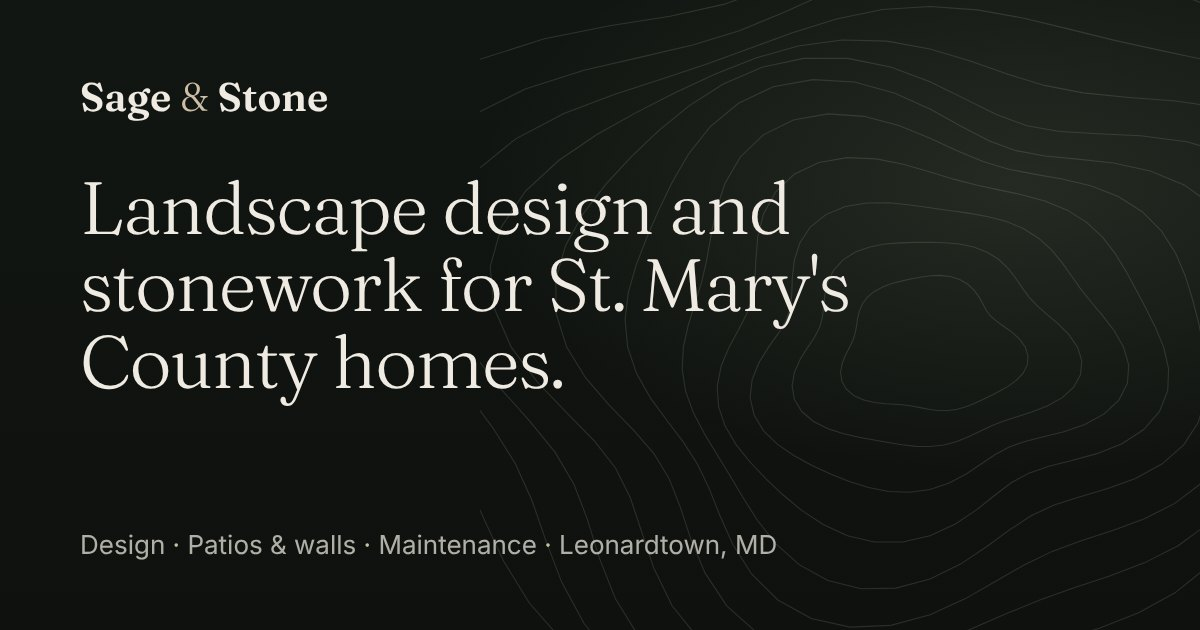
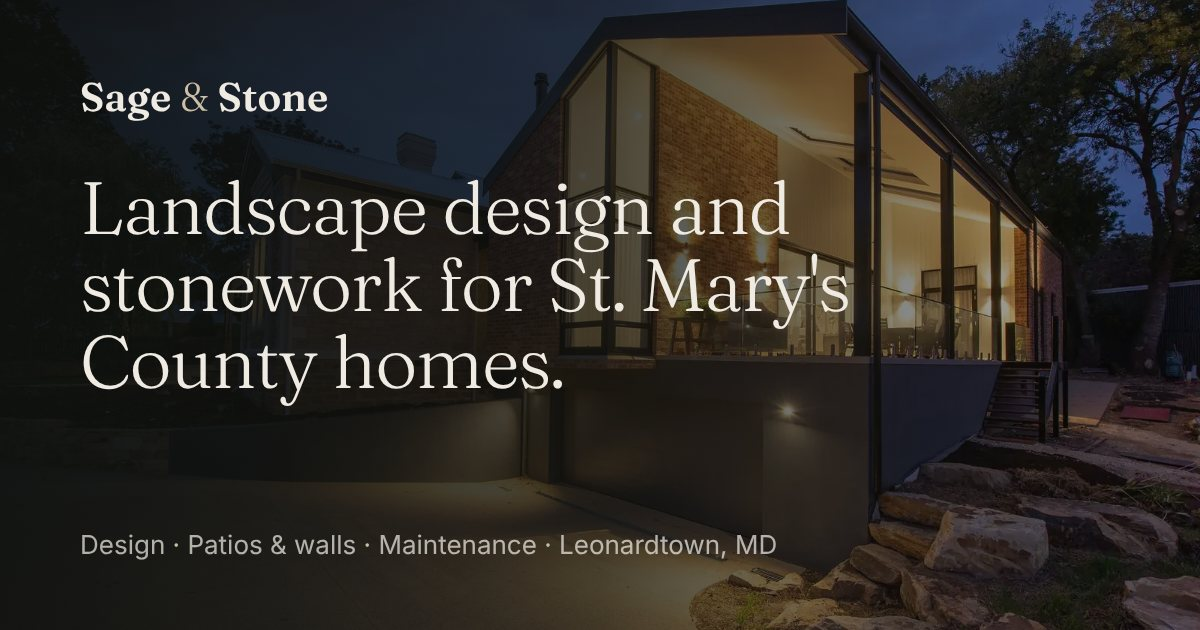
Fill photo slots with licensed stock photography
- Hero: dusk house with landscape lighting and boulder steps (Pexels),
  mirrored so the headline sits on the darker side; served as WebP at
  900/1600/2400w and preloaded as the LCP image
- Service cards: a photo per service (Pexels) replaces the line icons,
  responsive WebP at 400-1000w, lazy-loaded
- Before/after slider: a real same-yard transformation (krossbow on
  Flickr, CC BY 2.0) with the required credit shown under the slider
- Social share image now uses the hero photo
- Footer says the photos are stock images for illustration;
  images/CREDITS.md records every source and license

All photos are free-license stock and marked SWAP for real project work.

Claude-Session: https://claude.ai/code/session_019JXs736qRRS3YXfKqF7c8F

diff --git a/index.html b/index.html
@@ -68,6 +68,7 @@
   <!-- Fonts: Fraunces (display) + Inter (body/UI), self-hosted latin subsets -->
   <link rel="preload" href="/fonts/fraunces-latin.woff2" as="font" type="font/woff2" crossorigin>
   <link rel="preload" href="/fonts/inter-latin.woff2" as="font" type="font/woff2" crossorigin>
+  <link rel="preload" as="image" href="/images/hero-1600.webp" imagesrcset="/images/hero-900.webp 900w, /images/hero-1600.webp 1600w, /images/hero-2400.webp 2400w" imagesizes="100vw" fetchpriority="high">
 
   <!-- entrance animations only when the visitor hasn't asked for reduced motion -->
   <script>if (!matchMedia('(prefers-reduced-motion: reduce)').matches && 'IntersectionObserver' in window) document.documentElement.classList.add('motion');</script>
@@ -421,17 +422,14 @@
         radial-gradient(60% 50% at 10% 95%, rgba(205, 191, 166, 0.07) 0%, transparent 70%),
         linear-gradient(180deg, #121612 0%, var(--bg) 100%);
     }
-    .hero-contours {
+    .hero-media {
       position: absolute;
-      top: 50%;
-      right: -8%;
-      width: min(68vw, 980px);
-      height: auto;
-      transform: translateY(-46%);
-      color: var(--accent);
-      opacity: 0.14;
+      inset: 0;
+      width: 100%;
+      height: 100%;
+      object-fit: cover;
+      object-position: 50% 50%;
       z-index: 0;
-      pointer-events: none;
     }
     .hero::after {
       /* soft vignette so type sits on quiet ground */
@@ -440,7 +438,9 @@
       inset: 0;
       z-index: 1;
       pointer-events: none;
-      background: linear-gradient(90deg, rgba(14,17,14,0.85) 0%, rgba(14,17,14,0.4) 45%, transparent 75%);
+      background:
+        linear-gradient(90deg, rgba(14,17,14,0.9) 0%, rgba(14,17,14,0.78) 40%, rgba(14,17,14,0.3) 70%, rgba(14,17,14,0.12) 100%),
+        linear-gradient(0deg, rgba(14,17,14,0.85) 0%, transparent 30%);
     }
     .hero-content {
       position: relative;
@@ -451,8 +451,8 @@
     @media (max-width: 820px) {
       .hero { min-height: 0; }
       .hero-content { padding-block: 8.5rem 4rem; }
-      .hero-contours { width: 150vw; right: -70vw; top: 18%; opacity: 0.1; }
-      .hero::after { background: rgba(14,17,14,0.35); }
+      .hero-media { object-position: 72% 50%; }
+      .hero::after { background: linear-gradient(180deg, rgba(14,17,14,0.7) 0%, rgba(14,17,14,0.82) 45%, rgba(14,17,14,0.95) 100%); }
     }
 
     .hero-eyebrow {
@@ -537,8 +537,16 @@
       border-color: var(--hairline-bright);
       box-shadow: 0 24px 64px rgba(0, 0, 0, 0.35);
     }
-    .card-icon { margin-bottom: 1.75rem; }
-    .card-icon svg { width: 44px; height: 44px; color: var(--accent); }
+    .card { overflow: hidden; }
+    .card-media {
+      display: block;
+      width: calc(100% + 4.5rem);
+      max-width: none;
+      height: auto;
+      aspect-ratio: 3 / 2;
+      object-fit: cover;
+      margin: -2.5rem -2.25rem 1.75rem;
+    }
     .card h3 {
       font-family: var(--font-display);
       font-weight: 300;
@@ -601,27 +609,20 @@
     }
     .ba-scene { position: absolute; inset: 0; }
 
-    /* "before" scene — gradient stand-in until the real photo drops in */
-    .ba-before {
-      background:
-        radial-gradient(55% 45% at 28% 72%, rgba(96, 88, 62, 0.85) 0%, transparent 60%),
-        radial-gradient(50% 40% at 72% 78%, rgba(74, 72, 64, 0.8) 0%, transparent 60%),
-        radial-gradient(70% 30% at 50% 100%, rgba(52, 48, 38, 0.9) 0%, transparent 70%),
-        linear-gradient(180deg, #33362f 0%, #3b3c33 38%, #4a4437 40%, #3d3a2e 68%, #2e2b21 100%);
+    .ba-scene { background: var(--surface); }
+    .ba-scene img {
+      position: absolute;
+      inset: 0;
+      width: 100%;
+      height: 100%;
+      object-fit: cover;
+      pointer-events: none;
     }
-    /* "after" scene — gradient stand-in until the real photo drops in */
-    .ba-after {
-      clip-path: inset(0 calc(100% - var(--pos)) 0 0);
-      background:
-        radial-gradient(40% 32% at 76% 26%, rgba(185, 199, 163, 0.14) 0%, transparent 65%),
-        radial-gradient(55% 45% at 24% 68%, rgba(62, 107, 38, 0.9) 0%, transparent 60%),
-        radial-gradient(50% 42% at 70% 76%, rgba(45, 74, 30, 0.95) 0%, transparent 60%),
-        radial-gradient(70% 30% at 50% 102%, rgba(26, 46, 20, 1) 0%, transparent 72%),
-        linear-gradient(180deg, #142012 0%, #1b2d15 36%, #2c4a1e 38%, #23391a 66%, #142310 100%);
-    }
+    .ba-after { clip-path: inset(0 calc(100% - var(--pos)) 0 0); }
 
     .ba-badge {
       position: absolute;
+      z-index: 1;
       top: 1.25rem;
       padding: 0.35rem 0.9rem;
       border-radius: 999px;
@@ -700,6 +701,8 @@
       color: var(--muted);
       font-size: 0.85rem;
     }
+    .ba-caption .hint a { text-decoration: underline; text-underline-offset: 2px; }
+    .ba-caption .hint a:hover { color: var(--text); }
 
     /* ============================================================
        PROCESS
@@ -1053,9 +1056,11 @@
 
     <!-- ============ HERO ============ -->
     <section class="hero" id="top">
-      <!-- PHOTO SLOT: hero background — full-bleed dusk shot of a finished landscape,
-           low horizon, warm path lighting; replaces the contour motif -->
-      <svg class="hero-contours" viewBox="0 0 840 760" fill="none" stroke="currentColor" stroke-width="1" aria-hidden="true" focusable="false"><path d="M509.0 380.0 L511.5 388.3 L510.8 396.6 L506.9 404.3 L500.5 411.0 L492.8 416.6 L484.6 421.2 L476.6 425.3 L468.9 429.1 L461.3 432.6 L453.5 435.7 L445.4 438.0 L436.9 439.2 L428.3 439.2 L420.0 438.2 L412.0 436.7 L404.3 435.1 L396.4 434.0 L387.9 433.3 L378.5 432.8 L368.4 431.7 L358.3 429.4 L349.1 425.3 L341.9 419.3 L337.7 411.7 L336.5 403.4 L338.1 395.0 L341.3 387.1 L344.9 380.0 L348.1 373.5 L350.1 367.2 L351.3 360.8 L352.3 353.9 L353.9 346.8 L356.9 339.7 L361.6 333.3 L368.1 328.0 L375.9 323.8 L384.3 320.7 L393.0 318.4 L401.9 316.4 L410.8 314.7 L420.0 313.4 L429.4 313.0 L438.8 314.0 L447.7 316.8 L455.3 321.3 L461.5 327.2 L466.1 333.8 L469.6 340.3 L472.9 346.3 L476.9 351.4 L482.3 356.0 L489.0 360.7 L496.5 366.0 L503.6 372.5Z"/><path d="M557.7 380.0 L561.7 392.8 L560.5 405.7 L554.0 417.5 L543.1 427.4 L529.5 435.0 L515.0 440.6 L501.2 445.0 L488.8 449.0 L477.6 453.4 L467.2 458.3 L456.5 463.5 L445.1 468.0 L432.9 471.3 L420.0 472.8 L407.0 472.6 L394.0 471.1 L381.1 469.0 L367.8 466.7 L353.9 464.1 L339.4 460.9 L324.8 456.2 L311.3 449.4 L300.3 440.1 L293.4 428.8 L291.3 416.0 L293.6 403.1 L299.1 390.9 L306.0 380.0 L312.5 370.3 L317.1 361.2 L319.6 351.9 L320.8 341.8 L321.9 330.7 L324.6 319.2 L330.1 308.1 L338.8 298.5 L350.3 291.3 L363.7 286.5 L377.9 283.8 L392.2 282.7 L406.2 282.2 L420.0 282.1 L433.7 282.5 L447.5 283.7 L460.9 286.5 L473.4 291.4 L484.2 298.2 L493.1 306.7 L500.2 315.9 L506.3 324.9 L512.6 333.5 L520.1 341.4 L529.2 349.4 L539.6 358.2 L549.7 368.3Z"/><path d="M600.7 380.0 L605.5 396.7 L604.3 413.6 L596.3 429.4 L582.2 442.5 L564.0 452.4 L544.1 459.2 L524.9 463.9 L507.9 468.2 L493.4 473.4 L480.5 480.4 L467.7 489.1 L453.8 498.4 L437.9 506.8 L420.0 512.8 L400.9 515.4 L381.6 514.7 L362.7 511.0 L344.6 505.3 L327.1 498.3 L309.9 490.5 L293.2 481.4 L277.7 470.8 L264.7 458.1 L255.8 443.3 L252.1 427.0 L254.0 410.3 L260.4 394.4 L269.3 380.0 L278.4 367.2 L285.5 355.4 L289.6 343.5 L291.0 330.3 L291.5 315.4 L293.3 299.2 L298.5 282.8 L308.3 267.9 L322.8 256.3 L341.0 248.7 L361.1 245.4 L381.6 245.3 L401.3 247.3 L420.0 249.9 L438.0 252.5 L455.7 254.9 L473.4 258.0 L490.7 262.5 L507.0 269.2 L521.4 278.3 L533.5 289.2 L543.4 301.3 L552.1 313.6 L560.8 325.8 L570.4 337.9 L581.1 350.6 L591.8 364.5Z"/><path d="M638.1 380.0 L642.7 400.1 L641.9 420.5 L634.2 440.0 L619.5 456.9 L599.2 470.1 L575.8 479.4 L552.3 485.9 L530.9 491.2 L512.3 497.6 L496.1 506.4 L480.5 518.2 L463.3 531.9 L443.3 545.3 L420.0 556.0 L394.4 561.9 L368.1 561.8 L343.0 556.0 L320.3 545.6 L300.3 532.4 L282.7 517.8 L266.7 502.7 L252.0 487.2 L239.0 471.0 L228.8 453.7 L222.6 435.3 L221.4 416.3 L225.1 397.6 L232.5 380.0 L241.2 363.9 L249.0 348.8 L254.3 333.6 L256.6 317.1 L257.5 298.3 L259.2 277.4 L264.6 255.7 L275.8 235.3 L293.3 218.6 L316.3 207.7 L342.6 203.1 L369.9 204.3 L396.0 209.5 L420.0 216.5 L442.1 223.2 L463.2 228.7 L484.2 233.2 L505.7 237.7 L527.2 243.5 L547.7 251.9 L565.9 263.3 L581.0 277.3 L593.1 293.0 L603.1 309.5 L612.2 326.2 L621.2 343.3 L630.2 361.1Z"/><path d="M675.4 380.0 L678.2 403.3 L677.2 427.0 L670.4 450.1 L656.8 471.2 L636.7 488.9 L611.9 502.5 L585.3 512.2 L559.3 519.8 L535.8 527.4 L514.7 537.2 L494.5 550.3 L473.1 566.1 L448.5 582.5 L420.0 596.5 L388.3 604.9 L355.7 605.5 L324.7 597.8 L297.8 583.0 L276.0 563.3 L258.9 541.6 L245.2 519.9 L232.9 499.3 L221.1 480.0 L209.6 461.1 L199.4 441.8 L192.0 421.6 L188.7 400.9 L189.8 380.0 L194.3 359.7 L200.5 339.9 L206.6 320.3 L211.4 299.6 L215.4 277.1 L220.3 252.6 L228.7 227.0 L243.0 202.5 L264.4 181.9 L292.4 168.0 L324.8 162.3 L358.5 164.6 L390.9 173.2 L420.0 185.0 L445.8 197.0 L469.4 206.8 L492.7 213.8 L517.2 218.5 L543.3 223.0 L570.1 229.4 L595.7 239.4 L618.1 253.6 L635.9 271.5 L649.0 291.8 L658.2 313.3 L665.0 335.3 L670.7 357.4Z"/><path d="M717.9 380.0 L715.7 406.7 L711.7 433.3 L704.3 459.6 L691.7 484.7 L673.0 507.2 L648.5 525.8 L620.2 540.2 L590.6 551.1 L561.7 560.4 L534.6 570.4 L508.7 582.8 L482.2 598.1 L453.1 614.7 L420.0 629.8 L383.4 639.7 L345.4 641.3 L309.2 633.3 L278.0 616.0 L253.6 591.9 L236.1 564.4 L223.8 536.9 L213.7 511.6 L202.9 489.1 L189.8 468.7 L174.7 448.7 L159.2 427.6 L146.2 404.7 L137.8 380.0 L135.4 354.3 L138.5 328.6 L145.8 303.2 L155.5 278.1 L166.6 252.6 L179.2 226.4 L194.7 199.7 L214.9 174.2 L241.3 152.4 L273.7 137.0 L310.8 130.3 L349.4 132.6 L386.6 142.9 L420.0 157.8 L449.0 173.8 L475.0 187.3 L500.2 196.6 L527.4 201.6 L557.9 204.5 L591.3 208.1 L625.6 215.6 L657.3 228.6 L683.6 247.5 L702.3 271.3 L713.3 297.9 L718.1 325.6 L719.0 353.0Z"/><path d="M764.1 380.0 L753.0 410.0 L742.1 438.8 L731.0 467.1 L718.1 494.8 L701.2 521.3 L679.0 545.2 L651.6 565.3 L620.5 581.1 L587.7 593.6 L555.1 604.4 L523.1 615.8 L491.0 628.9 L457.1 643.6 L420.0 657.7 L379.4 668.0 L337.0 671.0 L295.7 664.2 L259.2 647.2 L230.3 621.5 L210.0 590.7 L196.6 558.7 L186.8 528.8 L176.4 502.5 L162.3 479.3 L143.3 457.4 L121.0 434.6 L98.8 409.0 L80.9 380.0 L71.0 348.5 L70.8 316.2 L80.0 284.8 L96.4 255.3 L117.5 227.9 L141.3 202.2 L167.1 177.7 L195.4 154.6 L227.1 134.4 L262.8 118.9 L302.1 110.5 L343.1 110.5 L383.2 118.5 L420.0 132.3 L452.6 148.3 L481.9 162.9 L510.4 173.3 L541.2 178.7 L576.5 180.8 L616.7 182.7 L659.6 188.3 L701.3 200.5 L737.0 220.7 L762.7 248.0 L776.6 280.2 L779.4 314.4 L774.0 348.1Z"/><path d="M806.5 380.0 L784.3 412.8 L763.9 442.8 L747.0 471.5 L732.8 500.5 L718.4 530.0 L700.8 559.1 L677.6 586.1 L648.6 609.3 L614.7 627.8 L577.9 642.3 L539.9 654.2 L501.4 665.3 L461.8 676.7 L420.0 687.8 L375.4 696.4 L328.8 699.6 L282.6 694.1 L240.2 678.6 L205.2 653.5 L179.3 621.4 L162.2 586.2 L150.7 551.8 L140.3 520.6 L126.6 493.0 L106.9 467.7 L81.5 441.8 L53.8 413.0 L29.1 380.0 L13.1 343.3 L9.5 305.0 L19.8 268.0 L42.3 234.5 L73.4 205.8 L109.1 181.6 L146.1 160.9 L182.9 142.2 L219.7 125.0 L257.5 110.1 L297.0 98.9 L338.2 93.3 L379.8 94.4 L420.0 101.7 L457.6 113.0 L492.7 125.3 L526.8 135.7 L562.9 142.7 L603.3 146.7 L649.0 150.3 L698.4 157.3 L747.4 171.1 L790.4 193.8 L821.7 225.2 L838.0 263.0 L838.6 303.6 L826.5 343.4Z"/><path d="M839.5 380.0 L808.2 415.0 L779.5 445.6 L757.2 474.4 L741.9 504.0 L730.8 536.2 L719.4 571.0 L703.0 606.4 L678.7 639.5 L645.9 667.6 L606.0 689.0 L561.7 703.9 L515.2 713.8 L468.0 720.6 L420.0 725.7 L370.8 729.0 L320.5 728.6 L270.3 722.2 L222.9 707.4 L181.6 683.5 L149.2 651.7 L126.4 614.9 L111.4 576.9 L100.2 540.7 L87.7 508.0 L70.0 478.0 L45.8 448.3 L17.1 416.3 L-10.9 380.0 L-31.5 339.3 L-38.9 296.2 L-29.8 254.1 L-4.6 216.4 L33.3 185.6 L78.3 162.0 L125.3 144.2 L170.4 129.6 L212.4 115.6 L252.1 101.1 L291.6 86.5 L332.6 73.7 L375.6 64.9 L420.0 62.0 L464.3 65.2 L507.6 73.0 L549.8 83.2 L592.3 93.7 L637.1 103.5 L685.4 113.7 L736.6 126.7 L787.5 145.5 L832.8 172.5 L866.6 208.0 L884.1 250.1 L883.5 295.4 L866.9 339.7Z"/><path d="M866.6 380.0 L832.8 417.2 L800.6 449.5 L775.6 479.5 L759.8 510.9 L751.3 546.5 L745.0 587.4 L734.6 631.7 L714.8 675.7 L683.0 714.8 L639.7 744.9 L588.0 764.1 L532.1 772.9 L475.4 773.6 L420.0 769.4 L366.1 762.6 L313.3 754.0 L261.4 742.5 L211.5 726.4 L165.8 703.7 L127.1 673.9 L97.3 638.2 L76.2 599.3 L61.4 560.3 L48.5 523.1 L32.8 488.4 L11.5 454.6 L-15.2 419.2 L-43.3 380.0 L-66.6 336.1 L-78.1 289.1 L-72.7 242.1 L-48.7 199.4 L-8.6 164.6 L42.2 139.0 L97.0 121.6 L150.1 109.3 L198.5 98.0 L242.1 84.6 L283.4 67.7 L325.5 48.7 L370.8 30.7 L420.0 17.3 L471.9 11.4 L524.4 14.0 L575.6 24.2 L624.8 39.8 L672.6 58.4 L720.1 79.0 L767.8 101.8 L814.5 128.3 L856.8 160.4 L889.8 199.0 L908.4 243.3 L909.9 290.6 L894.5 337.2Z"/><path d="M898.5 380.0 L870.5 420.6 L841.0 456.9 L816.1 490.9 L799.1 526.1 L789.8 565.9 L783.7 612.0 L774.3 663.5 L755.1 716.2 L721.8 764.3 L673.9 801.8 L614.5 824.6 L548.9 831.8 L482.7 825.3 L420.0 809.7 L362.3 789.9 L308.9 769.6 L258.0 750.3 L208.5 731.3 L160.6 710.3 L115.9 685.0 L77.1 654.3 L45.9 618.6 L22.2 580.0 L3.7 540.4 L-13.5 501.4 L-32.9 462.7 L-56.0 422.9 L-81.2 380.0 L-103.8 332.8 L-117.1 281.9 L-115.0 230.2 L-93.9 182.0 L-54.4 141.5 L-0.8 111.6 L60.1 92.1 L121.1 80.1 L177.4 71.1 L227.4 60.1 L273.0 44.0 L318.1 22.7 L366.3 -1.1 L420.0 -22.5 L478.7 -36.5 L539.7 -39.4 L599.4 -30.1 L654.9 -10.2 L704.8 17.4 L749.8 49.2 L791.2 83.0 L830.2 118.3 L866.2 155.7 L896.5 196.4 L917.4 240.8 L925.1 287.8 L918.3 335.1Z"/></svg>
+      <!-- PHOTO: stock image for illustration (Pexels, see images/CREDITS.md).
+           SWAP for a real dusk photo of a finished project. -->
+      <img class="hero-media" src="/images/hero-1600.webp"
+           srcset="/images/hero-900.webp 900w, /images/hero-1600.webp 1600w, /images/hero-2400.webp 2400w"
+           sizes="100vw" width="2400" height="1600" alt="" fetchpriority="high" decoding="async">
 
       <div class="container hero-content">
         <p class="hero-eyebrow">Leonardtown, MD · Serving all of St.&nbsp;Mary's County</p>
@@ -1085,17 +1090,12 @@
         <p class="section-sub reveal">Hire us for one part or all three. The people who plan your landscape are the people who build it.</p>
 
         <div class="cards">
-          <!-- PHOTO SLOT: Design & Build — drone shot of a completed master plan install -->
           <article class="card reveal">
-            <div class="card-icon" aria-hidden="true">
-              <svg viewBox="0 0 48 48" fill="none" stroke="currentColor" stroke-width="1.5" stroke-linecap="round" stroke-linejoin="round">
-                <circle cx="24" cy="9" r="3"/>
-                <path d="M22.8 11.8 14 38"/>
-                <path d="M25.2 11.8 34 38"/>
-                <path d="M17.5 27.5a13 13 0 0 1 13 0"/>
-                <path d="M10 41h28"/>
-              </svg>
-            </div>
+            <img class="card-media" src="/images/service-design-600.webp"
+                 srcset="/images/service-design-400.webp 400w, /images/service-design-600.webp 600w, /images/service-design-800.webp 800w, /images/service-design-1000.webp 1000w"
+                 sizes="(max-width: 900px) calc(100vw - 2.5rem), 380px"
+                 width="1000" height="667" loading="lazy" decoding="async"
+                 alt="Aerial view of a landscaped home with planting beds, lawn, and a curving front walkway">
             <h3>Design &amp; Build</h3>
             <p>One team carries the idea from the first site walk to the final planting, with a plan that fits the house, the water, and the light.</p>
             <ul class="card-list">
@@ -1107,16 +1107,12 @@
             <a class="card-link" href="#contact" data-service="Design &amp; build">Ask about design &amp; build <span class="arrow" aria-hidden="true">→</span></a>
           </article>
 
-          <!-- PHOTO SLOT: Hardscapes — close-up of dry-laid bluestone joints at dusk -->
           <article class="card reveal">
-            <div class="card-icon" aria-hidden="true">
-              <svg viewBox="0 0 48 48" fill="none" stroke="currentColor" stroke-width="1.5" stroke-linecap="round" stroke-linejoin="round">
-                <rect x="7"  y="30" width="15" height="9" rx="2"/>
-                <rect x="26" y="30" width="15" height="9" rx="2"/>
-                <rect x="15" y="19" width="17" height="9" rx="2"/>
-                <rect x="20" y="8"  width="12" height="9" rx="2"/>
-              </svg>
-            </div>
+            <img class="card-media" src="/images/service-hardscape-600.webp"
+                 srcset="/images/service-hardscape-400.webp 400w, /images/service-hardscape-600.webp 600w, /images/service-hardscape-800.webp 800w, /images/service-hardscape-1000.webp 1000w"
+                 sizes="(max-width: 900px) calc(100vw - 2.5rem), 380px"
+                 width="1000" height="667" loading="lazy" decoding="async"
+                 alt="Paver walkway running between low retaining walls and plantings">
             <h3>Patios &amp; Hardscapes</h3>
             <p>Stone terraces, walls, and walkways, set by hand and built to hold their line for decades.</p>
             <ul class="card-list">
@@ -1128,16 +1124,12 @@
             <a class="card-link" href="#contact" data-service="Patio, walls, or hardscape">Ask about a patio <span class="arrow" aria-hidden="true">→</span></a>
           </article>
 
-          <!-- PHOTO SLOT: Estate Maintenance — crew detail work, boxwood + clean edge -->
           <article class="card reveal">
-            <div class="card-icon" aria-hidden="true">
-              <svg viewBox="0 0 48 48" fill="none" stroke="currentColor" stroke-width="1.5" stroke-linecap="round" stroke-linejoin="round">
-                <path d="M24 41C12 33.5 10.5 18 24 7c13.5 11 12 26.5 0 34Z"/>
-                <path d="M24 39V13"/>
-                <path d="M24 28c-3-1.5-6-4.5-7-8"/>
-                <path d="M24 22c3-1.5 6-4.5 7-8"/>
-              </svg>
-            </div>
+            <img class="card-media" src="/images/service-maintenance-600.webp"
+                 srcset="/images/service-maintenance-400.webp 400w, /images/service-maintenance-600.webp 600w, /images/service-maintenance-800.webp 800w, /images/service-maintenance-1000.webp 1000w"
+                 sizes="(max-width: 900px) calc(100vw - 2.5rem), 380px"
+                 width="1000" height="667" loading="lazy" decoding="async"
+                 alt="Lawn being mowed in late-afternoon light">
             <h3>Estate Maintenance</h3>
             <p>Scheduled care from a crew that knows your property, so the landscape keeps looking the way it was designed.</p>
             <ul class="card-list">
@@ -1161,12 +1153,14 @@
 
         <div class="ba-wrap reveal">
           <div class="ba-slider" id="baSlider">
-            <!-- PHOTO SLOT: "before" photo — the untouched yard, flat light, patchy lawn -->
+            <!-- PHOTOS: example pair by krossbow on Flickr, CC BY 2.0 (credit shown in
+                 the caption is required). SWAP for your own before/after, same angle. -->
             <div class="ba-scene ba-before">
+              <img src="/images/before-1024.webp" srcset="/images/before-640.webp 640w, /images/before-1024.webp 1024w" sizes="(max-width: 1200px) calc(100vw - 2.5rem), 1120px" width="1024" height="576" loading="lazy" decoding="async" alt="Before: a plain lawn corner against a bare wooden fence" draggable="false">
               <span class="ba-badge">Before</span>
             </div>
-            <!-- PHOTO SLOT: "after" photo — same angle, finished landscape, evening light -->
             <div class="ba-scene ba-after">
+              <img src="/images/after-1024.webp" srcset="/images/after-640.webp 640w, /images/after-1024.webp 1024w" sizes="(max-width: 1200px) calc(100vw - 2.5rem), 1120px" width="1024" height="576" loading="lazy" decoding="async" alt="After: the same corner with a stone waterfall, pond, and new plantings" draggable="false">
               <span class="ba-badge">After</span>
             </div>
             <div class="ba-handle" id="baHandle" role="slider" tabindex="0"
@@ -1182,8 +1176,8 @@
             </div>
           </div>
           <div class="ba-caption">
-            <span class="name">Sample comparison <span class="placeholder-tag">Project photos coming soon</span></span><!-- SWAP: real before/after photos + project location -->
-            <span class="hint">Drag or use arrow keys to compare</span>
+            <span class="name">Example transformation <span class="placeholder-tag">Your project photos go here</span></span><!-- SWAP: real before/after photos + project location -->
+            <span class="hint">Drag or use arrow keys to compare · Photos: <a href="https://www.flickr.com/photos/13194817@N00/152145153" rel="noopener">krossbow</a>, <a href="https://creativecommons.org/licenses/by/2.0/" rel="noopener license">CC&nbsp;BY&nbsp;2.0</a></span>
           </div>
         </div>
       </div>
@@ -1376,7 +1370,7 @@
       </div>
 
       <div class="footer-bottom">
-        <span>© <span id="year">2026</span> Sage &amp; Stone Landscaping. All rights reserved.</span>
+        <span>© <span id="year">2026</span> Sage &amp; Stone Landscaping. All rights reserved. Photos are stock images for illustration.</span><!-- SWAP: remove once real project photos are in -->
         <span>MHIC #[license number] <!-- SWAP: real MHIC license number --> · Licensed &amp; insured</span>
       </div>
     </div>

diff --git a/images/CREDITS.md b/images/CREDITS.md
@@ -1,0 +1,17 @@
+# Image credits
+
+All photos on the site are stock images used for illustration. They are not
+Sage & Stone projects. Replace them with real project photography, then delete
+the matching rows below and the "Photos are stock images" line in the footer.
+
+| File(s) | Used for | Source | License |
+|---|---|---|---|
+| `hero-*.webp` | Hero background | [Pexels photo 4626268](https://www.pexels.com/photo/modern-house-facade-with-glowing-lights-at-dusk-4626268/) | [Pexels License](https://www.pexels.com/license/): free to use, attribution not required |
+| `service-design-*.webp` | Design & Build card | [Pexels photo 5178034](https://www.pexels.com/photo/house-with-green-grass-lawn-5178034/) | Pexels License |
+| `service-hardscape-*.webp` | Patios & Hardscapes card | [Pexels photo 450064](https://www.pexels.com/photo/gray-concrete-blocks-and-green-trees-450064/) | Pexels License |
+| `service-maintenance-*.webp` | Estate Maintenance card | [Pexels photo 6728926](https://www.pexels.com/photo/a-person-mowing-the-lawn-6728926/) | Pexels License |
+| `before-1024.webp` | Before/after slider, "before" | ["Backyard Makeover - BEFORE" by krossbow on Flickr](https://www.flickr.com/photos/13194817@N00/152145153) | [CC BY 2.0](https://creativecommons.org/licenses/by/2.0/): **credit required** (shown under the slider) |
+| `after-1024.webp` | Before/after slider, "after" | ["Backyard Makeover - AFTER" by krossbow on Flickr](https://www.flickr.com/photos/13194817@N00/152144773) | [CC BY 2.0](https://creativecommons.org/licenses/by/2.0/): **credit required** (shown under the slider) |
+
+Changes made: hero mirrored horizontally so the text sits on the darker side; cropped (cards 3:2, slider 16:9) and re-encoded as WebP at
+several widths. The CC BY photos were cropped only, not otherwise altered.
